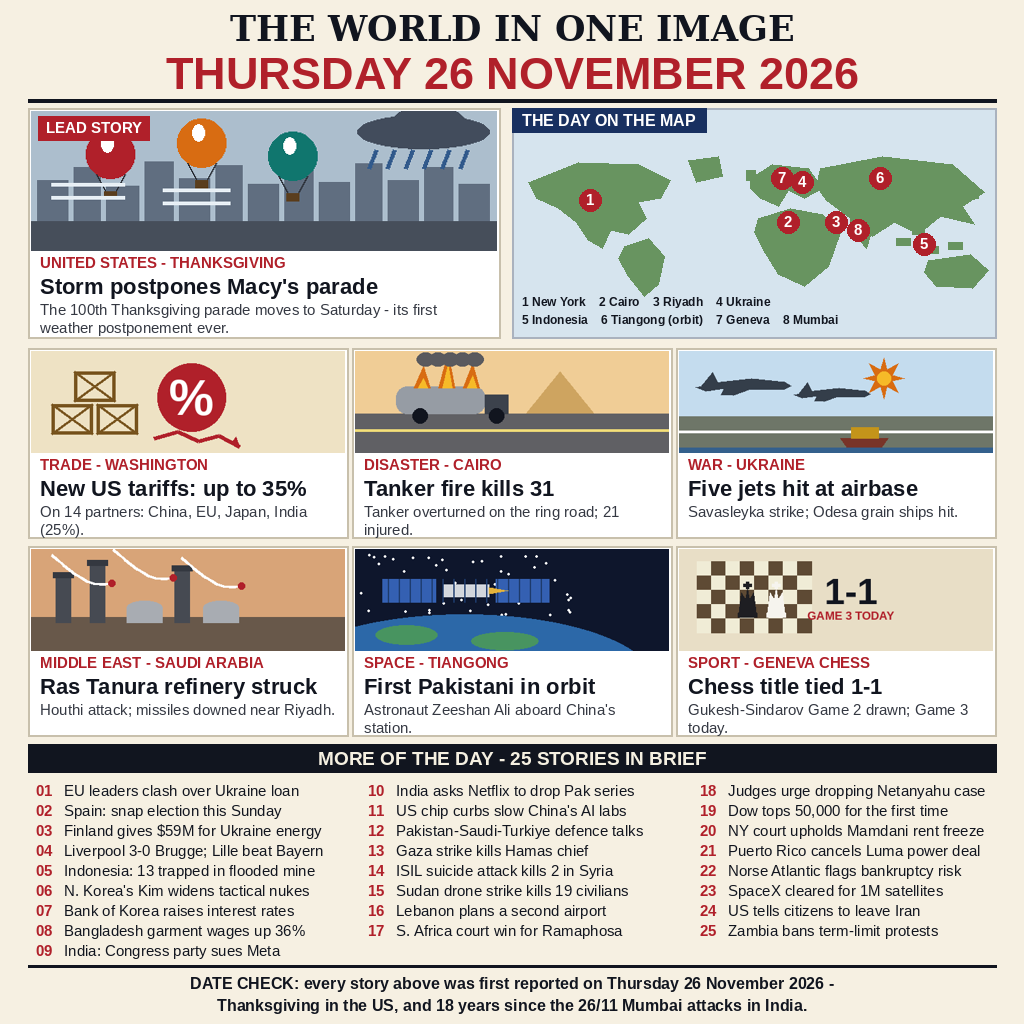
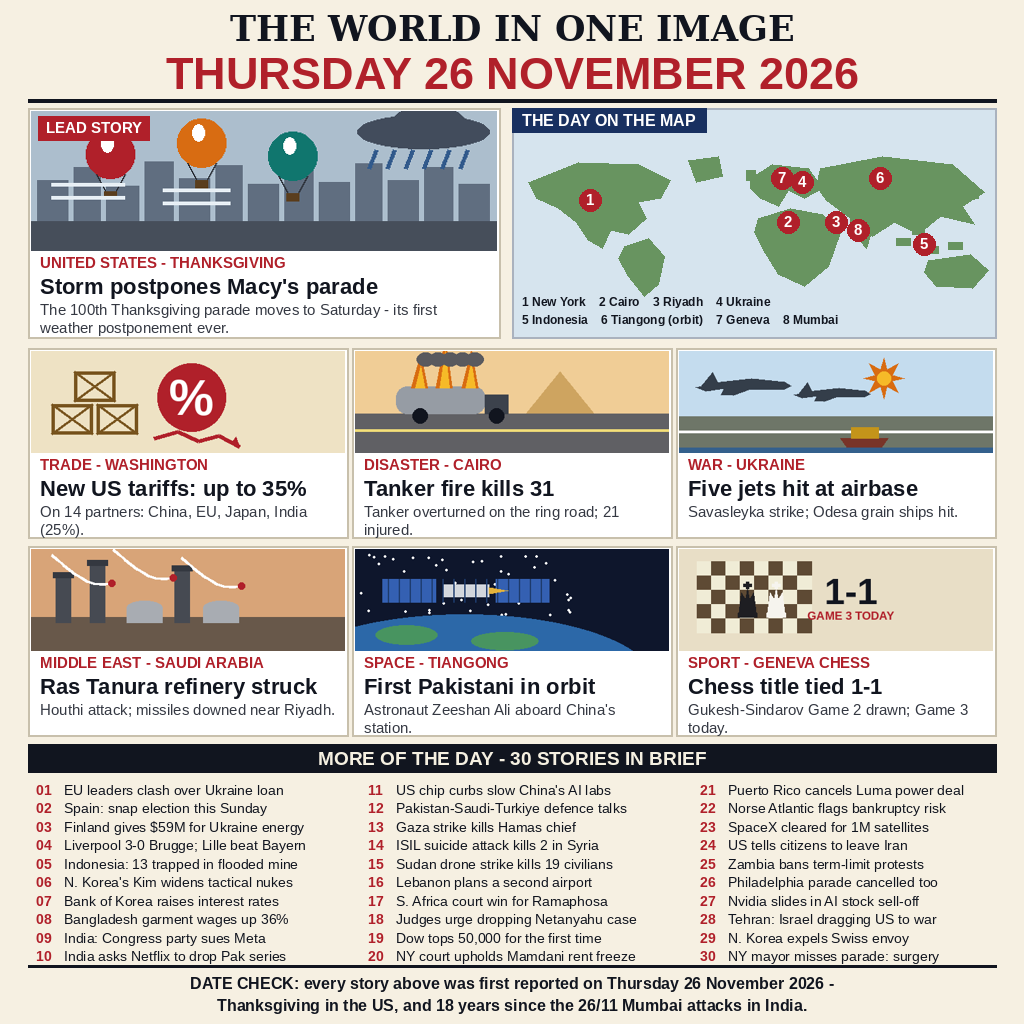
v3: 37 stories - five more verified briefs, bigger Cairo flames

diff --git a/generate_image_v2.py b/generate_image_v2.py
@@ -1,5 +1,5 @@
-"""Draw the v2 entry image: an illustrated newspaper front page of the world
-news of Thursday 26 November 2026.
+"""Draw the entry image (third revision): an illustrated newspaper front
+page of the world news of Thursday 26 November 2026.
 
 Run locally (needs Pillow) to regenerate entry.png:
     python3 generate_image_v2.py
@@ -9,11 +9,11 @@ directory, so the grader's standard-library-only sandbox never needs Pillow.
 
 Layout: masthead naming the day, a lead scene (Macy's 100th Thanksgiving
 parade postponed by a storm), a schematic world map with numbered pins,
-six more drawn scenes (US tariffs, Cairo tanker fire, Ukraine airbase strike,
-Ras Tanura refinery attack, Tiangong's first Pakistani astronaut, and the
-Gukesh-Sindarov world chess title match in Geneva), then 25 one-line briefs.
-32 stories in all, every one reported on 26 November 2026 and cross-checked
-in NEWS_SOURCES.md.
+six more drawn scenes (US tariffs, Cairo tanker fire, Ukraine airbase
+strike, Ras Tanura refinery attack, Tiangong's first Pakistani astronaut,
+and the Gukesh-Sindarov world chess title match in Geneva), then 30
+one-line briefs. 37 stories in all, every one reported on 26 November
+2026 and cross-checked in NEWS_SOURCES.md.
 """
 
 from PIL import Image, ImageDraw, ImageFont
@@ -129,7 +129,7 @@ def scene_cairo(d, x0, y0, x1, y1):
     for wx in (84, 196):
         d.ellipse([x0 + wx, y0 + 84, x0 + wx + 22, y0 + 106], fill=INK)
     # flames
-    for fx, fh in [(86, 58), (122, 78), (158, 62)]:
+    for fx, fh in [(82, 76), (118, 98), (156, 82)]:
         d.polygon([(x0 + fx, y0 + 54), (x0 + fx + 14, y0 + 54 - fh + 26),
                    (x0 + fx + 24, y0 + 54)], fill=ORANGE)
         d.polygon([(x0 + fx + 6, y0 + 54), (x0 + fx + 14, y0 + 54 - fh + 44),
@@ -367,6 +367,11 @@ BRIEFS = [
     "SpaceX cleared for 1M satellites",
     "US tells citizens to leave Iran",
     "Zambia bans term-limit protests",
+    "Philadelphia parade cancelled too",
+    "Nvidia slides in AI stock sell-off",
+    "Tehran: Israel dragging US to war",
+    "N. Korea expels Swiss envoy",
+    "NY mayor misses parade: surgery",
 ]
 
 
@@ -406,21 +411,21 @@ def main():
             scene_panel(d, [x0, y0, x0 + 320, y0 + 190], scene,
                         kicker, head, body)
 
-    # Briefs: 25 one-liners in three columns
+    # Briefs: 30 one-liners in three columns
     by = 744
     d.rectangle([28, by, W - 28, by + 28], fill=INK)
-    d.text((W // 2, by + 14), "MORE OF THE DAY - 25 STORIES IN BRIEF",
+    d.text((W // 2, by + 14), "MORE OF THE DAY - 30 STORIES IN BRIEF",
            font=F(SANS_BOLD, 19), fill=(245, 240, 225), anchor="mm")
-    cols = [BRIEFS[:9], BRIEFS[9:17], BRIEFS[17:]]
+    cols = [BRIEFS[:10], BRIEFS[10:20], BRIEFS[20:]]
     col_x = [36, 368, 700]
     for ci, col in enumerate(cols):
         ty = by + 38
         for j, item in enumerate(col):
             num = sum(len(c) for c in cols[:ci]) + j + 1
-            d.text((col_x[ci], ty), f"{num:02d}", font=F(SANS_BOLD, 15),
+            d.text((col_x[ci], ty), f"{num:02d}", font=F(SANS_BOLD, 14),
                    fill=RED)
-            d.text((col_x[ci] + 28, ty), item, font=F(SANS, 15), fill=INK)
-            ty += 20
+            d.text((col_x[ci] + 28, ty), item, font=F(SANS, 14), fill=INK)
+            ty += 18.5
 
     # Date-check footer
     fy = 970

diff --git a/main.py b/main.py
@@ -1,7 +1,7 @@
 """make.fun entry for "Sum up 26 November's world news in one image".
 
 The program writes one image to /output/entry.png. The image itself is the
-entry.png stored beside this file (an illustrated front page of 32 stories
+entry.png stored beside this file (an illustrated front page of 37 stories
 drawn by generate_image_v2.py from the day's reported news; v1 used
 generate_image.py), and this program simply copies it, byte for byte, so two runs
 always produce identical output. Standard library only; no network.

diff --git a/README.md b/README.md
@@ -5,11 +5,11 @@
 [![reward](https://make.fun/badge/news-image-20261126/PencariReceh525/world-news-2026-11-26/reward.svg)](https://make.fun/bounty/news-image-20261126?utm_source=github&utm_medium=readme&utm_campaign=news-image-20261126)
 
 One illustrated front page that sums up the world news of Thursday
-26 November 2026 — 32 stories in all: a drawn lead scene of the storm that
+26 November 2026 — 37 stories in all: a drawn lead scene of the storm that
 postponed Macy's 100th Thanksgiving parade, a world map with numbered pins,
 drawn scenes for US tariffs, the Cairo tanker fire, Ukraine's airbase
 strike, the Ras Tanura refinery attack, the first Pakistani astronaut
-aboard Tiangong and the Gukesh–Sindarov chess title match, plus 25 briefs.
+aboard Tiangong and the Gukesh–Sindarov chess title match, plus 30 briefs.
 `main.py` writes the image to `/output/entry.png`; `generate_image_v2.py`
 is the drawing program that produced it, and `NEWS_SOURCES.md` lists the
 same-day reporting each story was checked against.

diff --git a/NEWS_SOURCES.md b/NEWS_SOURCES.md
@@ -48,3 +48,8 @@ cross-checked in at least two same-day sources before it was drawn:
   over 50,000, the Mamdani rent freeze ruling, Puerto Rico's Luma ruling,
   Norse Atlantic, SpaceX's FCC satellite clearance, the US leave-Iran notice
   and Zambia's protest ban.
+- **Added in v3 (briefs 26–30)** — Philadelphia cancelling its own
+  Thanksgiving parade and Mayor Mamdani's foot surgery (CNN's parade
+  coverage), Nvidia's slide in the AI sell-off (same-day market digests),
+  Tehran's "Israel is dragging the US into war" line (OneTurn), and North
+  Korea expelling the Swiss envoy (The Edition same-day archive).
